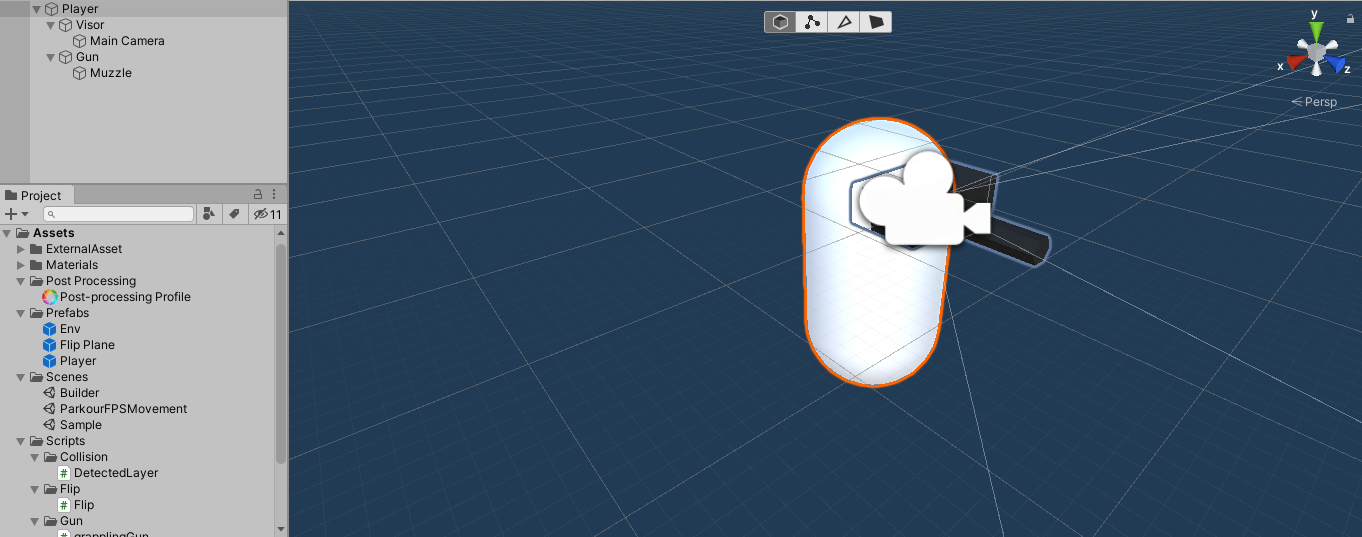
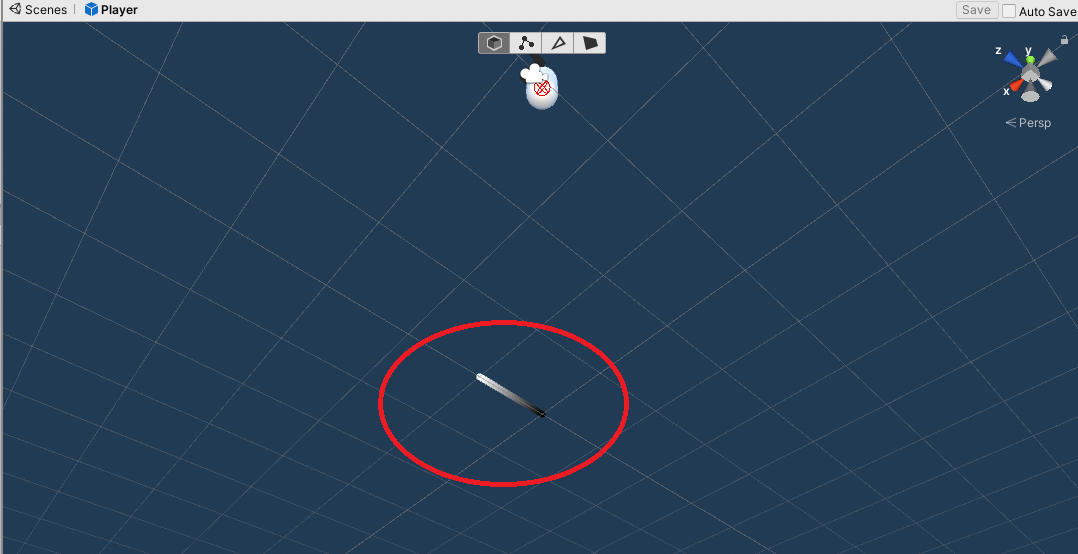
GitBook: [master] one page and 9 assets modified

diff --git a/unity/tutorial/page1/tutorial-grappling-parkour-fps-game.md b/unity/tutorial/page1/tutorial-grappling-parkour-fps-game.md
@@ -24,6 +24,8 @@ Tutorial을 보시기 전 주의점
 * 해당 문서를 작성하는 이유는 위의 기능의 추가 중 Callback System을 도입하고나서, 즉흥적으로 기능을 추가하는 것에 대해 한계를 느껴 해당 내용을 정리하고자 작성됨을 알립니다.
 * **즉, 설계가 즉흥적으로 추가한 것이다 보니, 해당 프로젝트를 가지고 첨삭하는 것을 추천하지 않습니다.**
 * Grapple 기능에 대해서는 아래의 영상에서 R&D를 했습니다.
+  * Grappling Gun 기능은 아래의 영상을 참조하였습니다.
+  * 해당문서는 상업적으로 이용되지 않음을 알립니다.
 {% endhint %}
 
 {% embed url="https://www.youtube.com/watch?v=Xgh4v1w5DxU&t=203s" %}
@@ -42,30 +44,50 @@ Tutorial을 보시기 전 주의점
   * Post Processing
   * Probuilder
 
+## 작성하기 전 프로젝트의 Class diagram
+
+해당 프로젝트는 4개의 기능 Class로 구현되어 있습니다.
+
+![](../../../.gitbook/assets/image%20%28228%29.png)
+
+이렇게 구성한 이유는 사이드 프로젝트의 성격상 그때그때의 생각난 기능들을 구현했기 때문이고, 이를 바탕으로 Callback System을 적용한 Class diagram을 다시 제작할 예정입니다.
+
 ## 작성법
 
-### Player - Object
+### Player
 
-해당 내용에서는 아에서 작성한 클래스 다이어그램을 통해 움직일 Object의 배치를 설명합니다.
+해당 내용에서는 다음 내용과 같은 목차가 있습니다.
+
+1. Player - Movement
+2. Player - Detected Layer
+3. Player - Grappling
+
+## 
+
+### Player - Movement
+
+좀 더 물리적인 느낌을 주기 위해 다음과 같이 구성했습니다.
+
+* 카메라의 회전과 동시에 회전 방향으로 Object가 이동
+* Rigidbody를 이용하여 이동할 위치로 Velocity\(속도\)를 줘서, 물리엔진을 사용하는 이동을 구현
 
 Object의 배치는 아래의 그림과 같습니다.
 
-![](../../../.gitbook/assets/image%20%28222%29.png)
+![](../../../.gitbook/assets/image%20%28225%29.png)
 
-해당 그림은 Capsule Object를 추가하여 하위 Object로 Cube Object를 생성하여 이름을 Visor로 놓고 다시 Visor Object 아래에 Main Camera를 둔 형태입니다.
+위 그림은 Capsule Object를 추가하여 하위 Object로 Cube Object를 생성하여 이름을 Visor로 놓고 다시 Visor Object 아래에 Main Camera를 둔 형태입니다.
 
 Gun Object는 Probuilder를 통한 Mesh 제작을 통해 Pipe모양의 Mesh를 적용하고 Muzzle이라는 Empty Object을 총구처럼 두고 쓰고 있습니다.
 
-### Player - Script
+4개의 Class로 중 Movement에 관련된 Class는 2개입니다.
 
-해당 프로젝트에서는 다음과 같이 간단한 클래스 다이어그램을 가지고 있습니다.
+* Playerable라는 추상 클래스
+* PlayerMovement라는 움직임 전반을 담당하는 Class
 
-![](../../../.gitbook/assets/image%20%28224%29.png)
-
-해당 Script는 다음과 같은 내용으로 구성 되어 있습니다.
+이를 바탕으로 Movement에 관련한 Class의 내용을 다음과 같습니다.
 
 {% tabs %}
-{% tab title="Playable" %}
+{% tab title="Playerable" %}
 ```csharp
 using System.Collections;
 using System.Collections.Generic;
@@ -264,8 +286,30 @@ namespace FPSGame.Movement
 }
 ```
 {% endtab %}
+{% endtabs %}
 
-{% tab title="DetectedLayer" %}
+## 
+
+### Player - Detected layer
+
+Rigidbody를 이용한 움직임을 구현하다 보니, Object가 다른 물체에 충돌 시 프레임이 끊기면서, 이상한 충돌을 일으키는 현상을 발견했습니다. 
+
+이를 해결하기 위해, 나중에 추가할 다른 움직임을 위해, Detected Layer라는 기능 Class를 제작하여 충돌 시 Kinematic이 true가 되도록 작성했습니다.
+
+Object의 배치는 다음과 같습니다.
+
+![](../../../.gitbook/assets/image%20%28226%29.png)
+
+OnDrawGizmos\(\) 함수를 통해 원 모양의 Gizmos를 Editor상에 띄울 수 있도록 작업 했기에 중간의 원 모양이 나타납니다.
+
+Inspector가 아닌 Script로 설정하여, 바로 적용할 수 있는 Class는 다음과 같습니다.
+
+* Detected Layer라는 충돌 부위 감지 Class
+
+이를 바탕으로 Detected Layer에 관한 내용은 아래와 같습니다.
+
+{% tabs %}
+{% tab title="Detected Layer" %}
 ```csharp
 using System.Collections;
 using System.Collections.Generic;
@@ -319,7 +363,8 @@ namespace FPSGame.Helper
         public void DetectedToTerrain()
         {
             // Ground
-            groundColl = Physics.OverlapSphere(body.position + bottomOffset, collRadius, groundLayer);
+            groundColl = Physics.
+                OverlapSphere(body.position + bottomOffset, collRadius, groundLayer);
             if(groundColl.Length != 0)  {  isGround = true;  }
             else  { isGround = false; }
 
@@ -329,9 +374,11 @@ namespace FPSGame.Helper
             WallDetected(rightWallColl, rightOffset, wallLayer, ref isRightWall);
             WallDetected(ceilingColl, upperOffset, wallLayer, ref isCeiling);
         }
-        public void WallDetected(Collider[] coll, Vector3 offset, LayerMask targetMask, ref bool targetBool)
+        public void WallDetected(Collider[] coll, Vector3 offset, 
+                                LayerMask targetMask, ref bool targetBool)
         {
-            coll = Physics.OverlapSphere(body.position + offset, collRadius, targetMask);
+            coll = Physics.OverlapSphere(body.position + offset, 
+                        collRadius, targetMask);
             if(coll.Length != 0) 
             { 
                 targetBool = true;
@@ -367,8 +414,34 @@ namespace FPSGame.Helper
 
 ```
 {% endtab %}
+{% endtabs %}
 
-{% tab title="GrapplingGun" %}
+## 
+
+### Player - Grappling
+
+대형 Unity Youtuber인 dani의 Grappling Gun을 이용한 Parkour Game이 존재함을 알게 되었고 이를 사용하여 Grappling Gun 기능을 구현했습니다. 
+
+Object의 배치는 다음과 같습니다.
+
+![](../../../.gitbook/assets/image%20%28223%29.png)
+
+Gun Object를 보시면 간단하게 Gun Object와 하위 Object인 Muzzle Object만 존재합니다.
+
+![](../../../.gitbook/assets/image%20%28222%29.png)
+
+{% hint style="warning" %}
+Probuilder를 통하여 작성 했기 때문에, 위와 같은 그림이 나오는 경우 오류가 아님을 알립니다.
+{% endhint %}
+
+Grappling Gun 기능의 대한 Class는 다음과 같습니다.
+
+* grapplingGun라는 Class
+
+위 기능 Class에 대한 기능은 다음과 같습니다.
+
+{% tabs %}
+{% tab title="grapplingGun" %}
 ```csharp
 using System.Collections;
 using System.Collections.Generic;
@@ -385,13 +458,11 @@ public class grapplingGun : MonoBehaviour
     public float lineDistance = 100f;
     public Vector3 currentGrapplePos;
 
-    // Start is called before the first frame update
     void Start()
     {
         line = GetComponent<LineRenderer>();
     }
 
-    // Update is called once per frame
     void Update()
     {
         if (Input.GetMouseButtonDown(0))
@@ -413,10 +484,9 @@ public class grapplingGun : MonoBehaviour
     {
         RaycastHit hitInfo;
         if (Physics.Raycast(playerCamera.position, playerCamera.forward, 
-        out hitInfo, lineDistance))
+                            out hitInfo, lineDistance))
         {
             grapplePoint = hitInfo.point;
-
 
             joint = Player.gameObject.AddComponent<SpringJoint>();
             joint.autoConfigureConnectedAnchor = false;
@@ -431,7 +501,7 @@ public class grapplingGun : MonoBehaviour
             joint.damper = 7f;
             joint.massScale = 4.5f;
 
-            line.positionCount = 2f;
+            line.positionCount = 2;
             currentGrapplePos = pistolMuzzle.position;
         }
     }
@@ -441,8 +511,8 @@ public class grapplingGun : MonoBehaviour
         if (!joint)
             return;
 
-        currentGrapplePos = 
-            Vector3.Lerp(currentGrapplePos, grapplePoint, Time.deltaTime * 8f);
+        currentGrapplePos = Vector3.Lerp(currentGrapplePos, grapplePoint, 
+                            Time.deltaTime * 8f);
         line.SetPosition(0, pistolMuzzle.position);
         line.SetPosition(1, currentGrapplePos);
     }
@@ -453,19 +523,55 @@ public class grapplingGun : MonoBehaviour
         Destroy(joint);
     }
 }
+
 ```
 {% endtab %}
 {% endtabs %}
 
-### Enviroment - Post Processing
+## 
+
+### Enviroment
+
+해당 내용에는 다음과 같은 목차로 구성되어 있습니다.
+
+1. Post Processing
+2. Probuilder
+
+### **Enviroment - Post Processing**
 
 * 해당부분은 Post Processing에 관한 기능과 프로젝트에 적용된 Profile에 관하여 설명합니다.
 
+Post Processing이란?
+
+카메라 이미지 버퍼가 화면에 표시되기 전에 화면 전체에 필터 및 효과를 적용하는 과정입니다.
+
+다음과 같은 과정을 거쳐서 적용시킵니다.
+
+1. 카메라에 Post-Process Layer Component 적용
+2. Post Profile을 Project View에서 생성하여 적절한 효과를 부여
+3. Empty Object를 생성하여 Post-process Volume을 적용하여 작성한 Profile을 해당 Component 삽
+
 {% embed url="https://unity3d.com/kr/how-to/set-up-post-processing-stack" %}
+
+작성자는 아래와 같이 적용했습니다.
+
+![](../../../.gitbook/assets/image%20%28230%29.png)
+
+## 
+
+### Enviroment - ProBuilder
+
+* 해당 부분은 Probuilder에 관한 설명을 합니다.
+
+ProBuilder란?
+
+Unity 자체 Package로써, 지형지물을 제작을 좀 더 편리하게 적용할 수 있는 Package입니다. 간단하게 Blender나 3Ds Max, Maya 같은 Unity 내장 Tool이라고 생각하시면 됩니다.
+
+{% embed url="https://unity3d.com/kr/unity/features/worldbuilding/probuilder" %}
 
 ## 마치며
 
 * 위의 내용을 가지고 How-to-guide에서 마저 설명하도록 하겠습니다.
 
-{% page-ref page="tutorial-grappling-parkour-fps-game.md" %}
+{% page-ref page="../../how-to-guide/unity/how-to-guide-grappling-parkour-fps-game.md" %}
 
